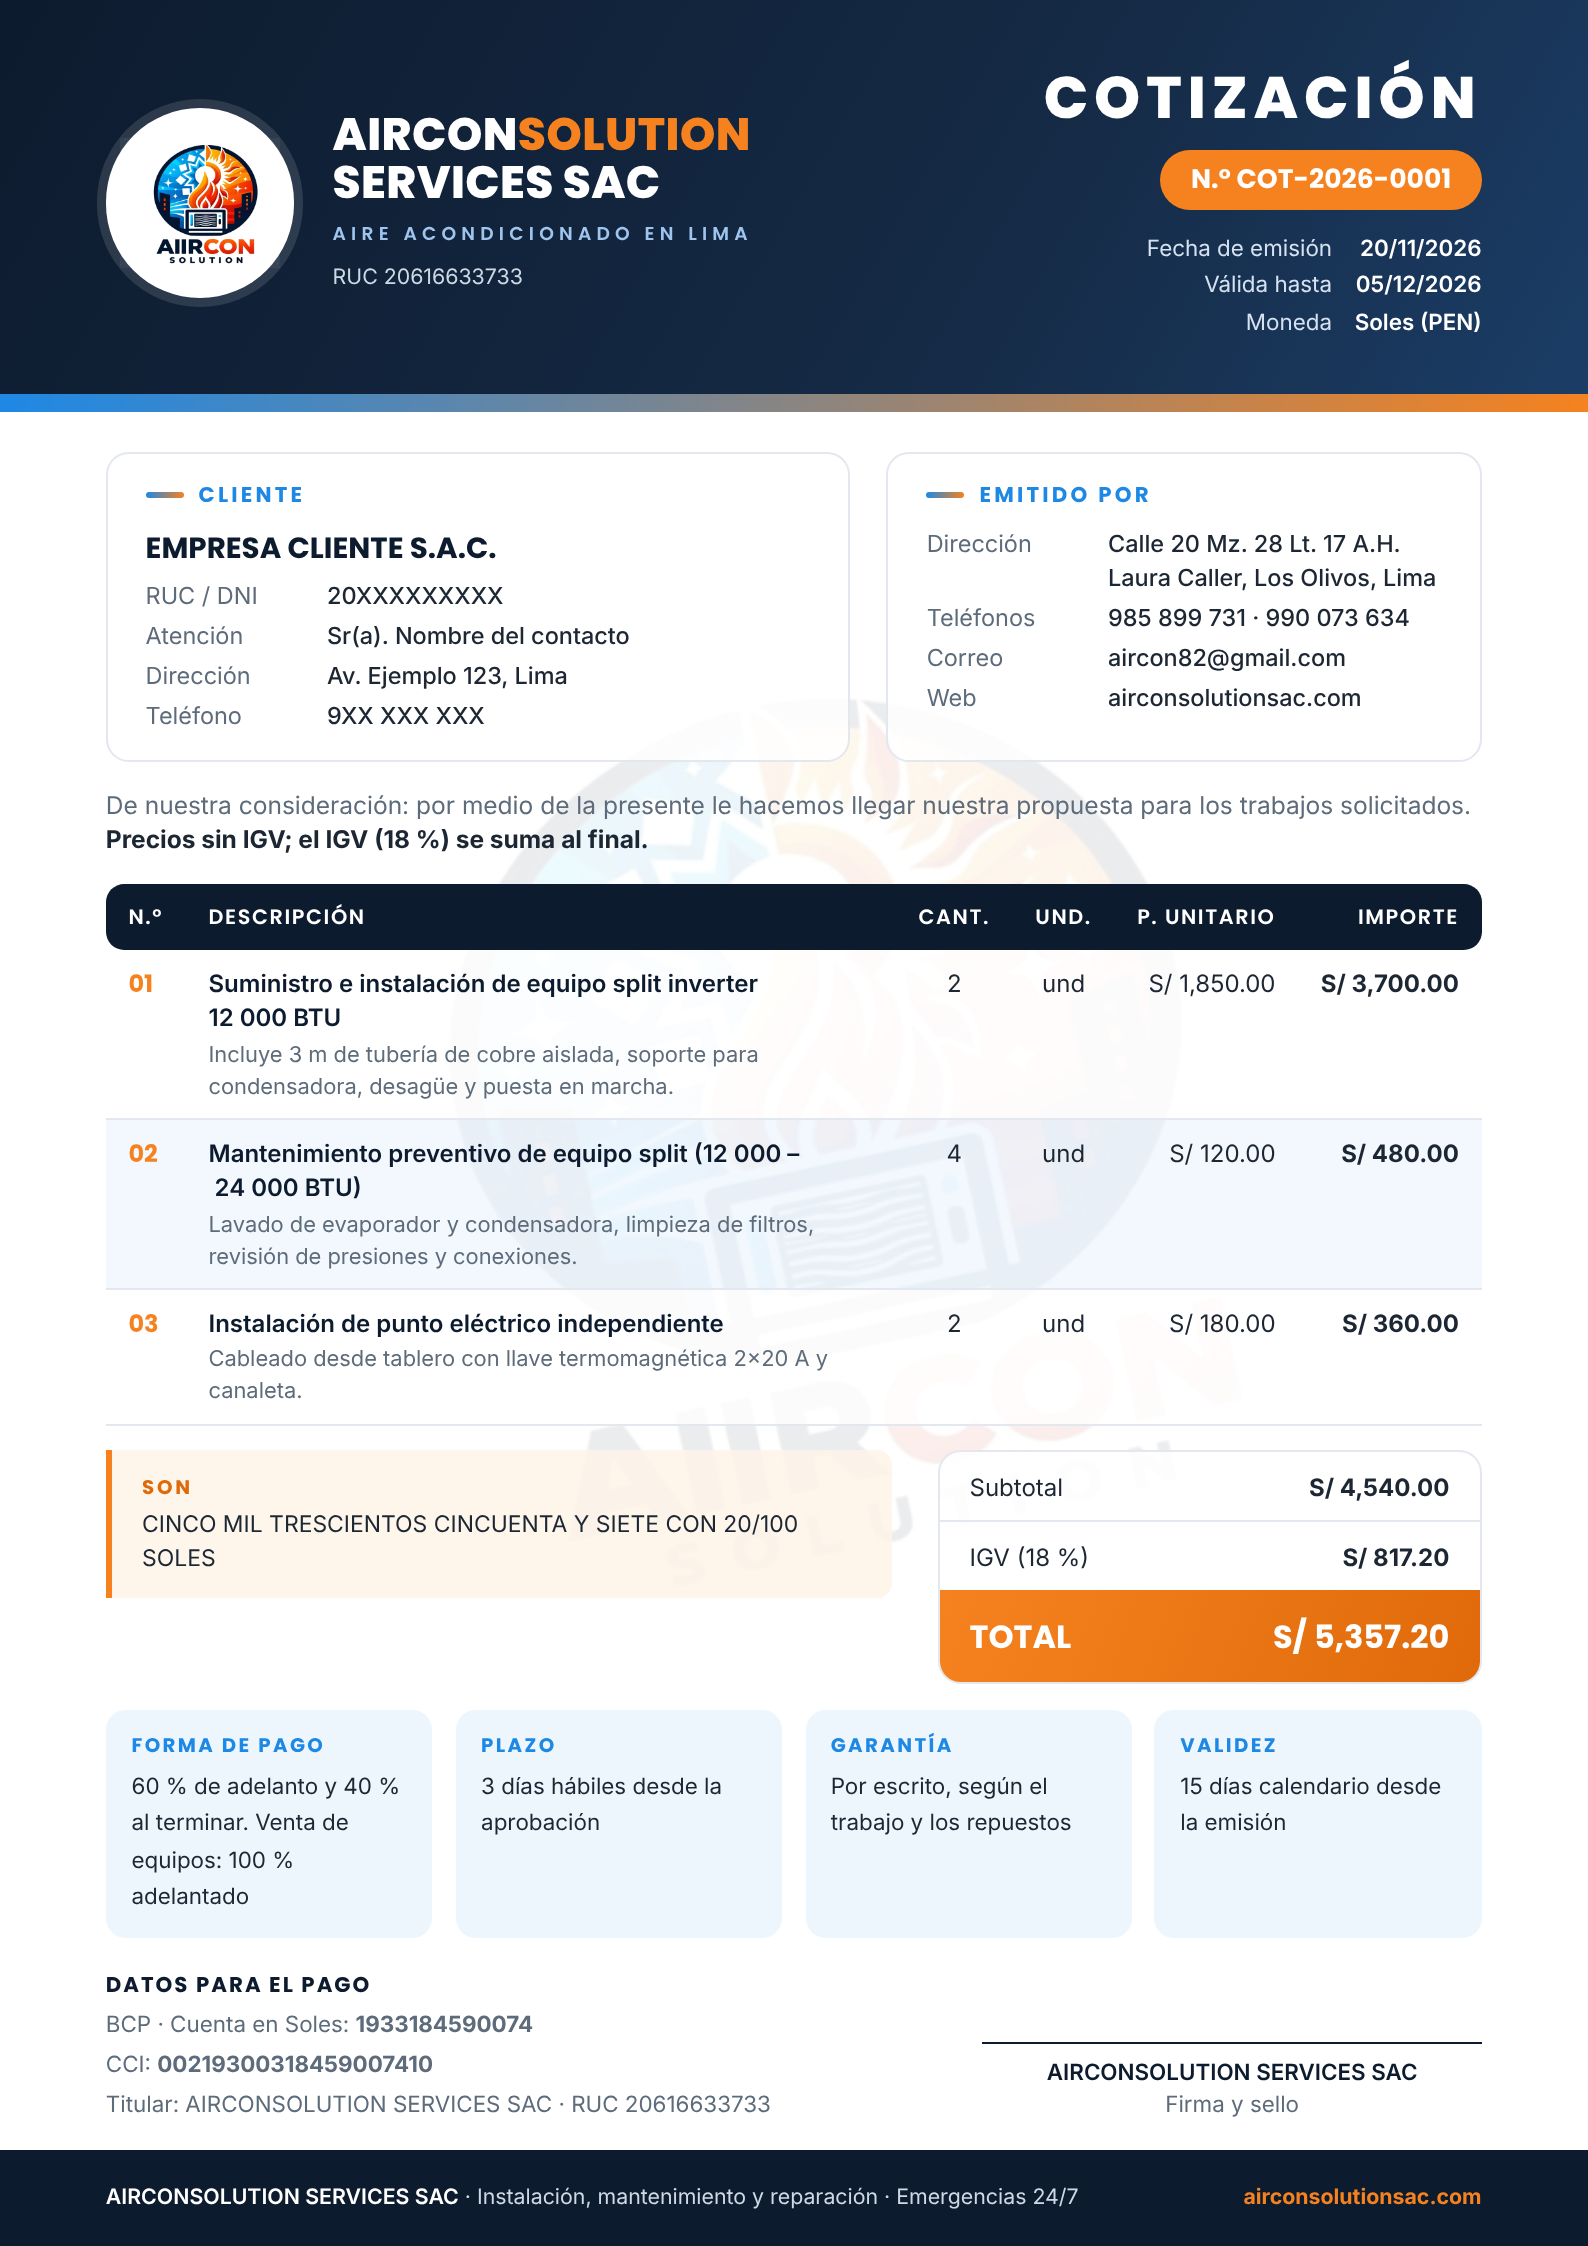
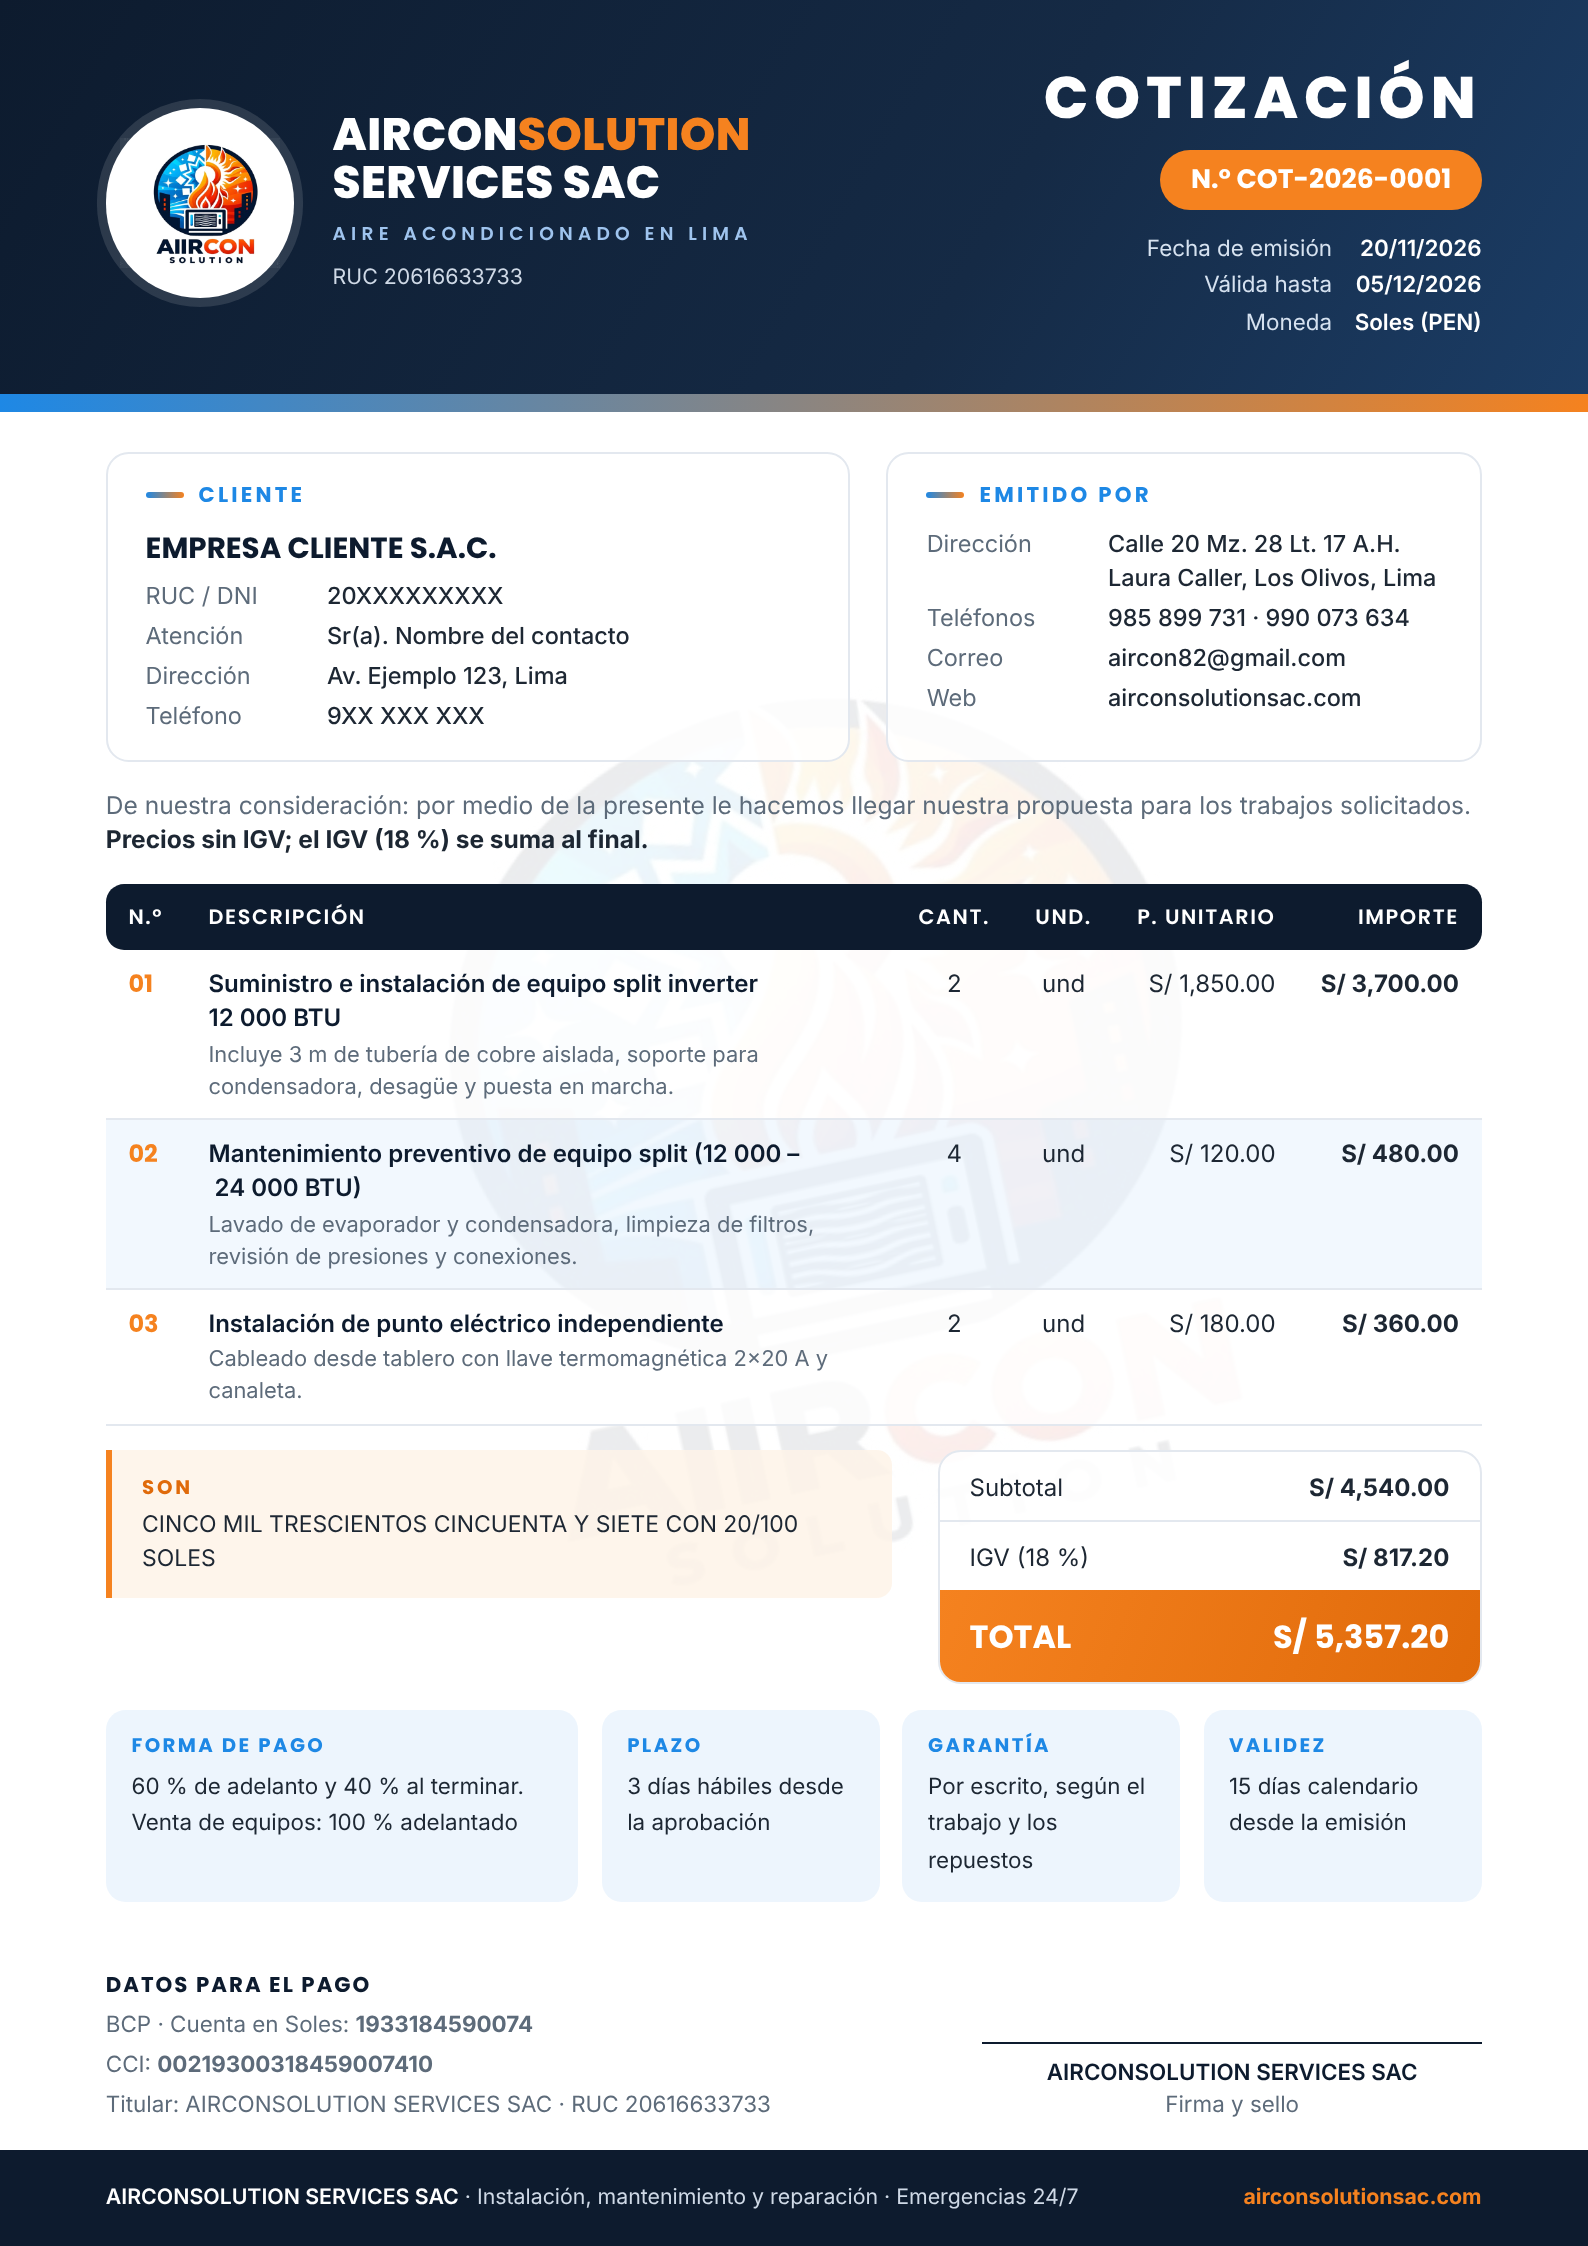
Cotización: partidas «por definir», forma de pago y cliente flexibles
- Una partida con precio null sale como «Por definir» y no suma al total
  (p. ej. materiales que se cotizan al instalar).
- Campo opcional forma_pago; la casilla de forma de pago es más ancha.
- Los datos del cliente vacíos no se muestran.

Claude-Session: https://claude.ai/code/session_01AZN1LapY6ga2rnRxoJVwRs

Changed region(s): [[0.2777, 0.748, 0.6788, 0.8415], [0.7406, 0.748, 0.8948, 0.8103], [0.0926, 0.8103, 0.1851, 0.8415]]

diff --git a/docs/cotizacion/generar.py b/docs/cotizacion/generar.py
@@ -105,7 +105,9 @@ def en_letras(monto: float) -> str:
 
 
 ITEMS = [tuple(x) for x in D["items"]]
-subtotal = sum(q * p for _, _, q, _, p in ITEMS)
+# Una partida con precio null (p. ej. materiales que se cotizan al instalar) sale como «Por definir»
+# y no suma al total.
+subtotal = sum(q * p for _, _, q, _, p in ITEMS if p is not None)
 igv = round(subtotal * 0.18, 2)
 total = round(subtotal + igv, 2)
 fecha = dt.date.fromisoformat(D["fecha"])
@@ -122,8 +124,8 @@ rows = "\n".join(
     f"""<tr>
       <td class="n">{i:02d}</td>
       <td class="desc"><strong>{E(t)}</strong><span>{E(d).replace(chr(10), "<br>")}</span></td>
-      <td class="c">{q:g}</td><td class="c">{E(u)}</td>
-      <td class="r">{money(p)}</td><td class="r b">{money(q * p)}</td>
+      <td class="c">{q if isinstance(q, str) else format(q, "g")}</td><td class="c">{E(u)}</td>
+      <td class="r">{money(p) if p is not None else "Por definir"}</td><td class="r b">{money(q * p) if p is not None else "—"}</td>
     </tr>"""
     for i, (t, d, q, u, p) in enumerate(ITEMS, 1)
 )
@@ -209,7 +211,7 @@ th.c, th.r {{ text-align: center; }} th.r {{ text-align: right; }}
   font-family: 'Poppins'; font-weight: 700; font-size: 12pt; padding: 3mm 4mm; border: 0; }}
 
 /* Condiciones */
-.terms {{ display: grid; grid-template-columns: repeat(4, 1fr); gap: 3mm; }}
+.terms {{ display: grid; grid-template-columns: 1.7fr 1fr 1fr 1fr; gap: 3mm; }}
 .term {{ border-radius: 2.6mm; padding: 3mm 3.4mm; background: rgba(232,242,253,.8); }}
 .term b {{ display: block; font-family: 'Poppins'; font-weight: 700; font-size: 7.4pt; letter-spacing: 1.2px;
   text-transform: uppercase; color: var(--blue); margin-bottom: .8mm; }}
@@ -257,10 +259,10 @@ footer .web {{ color: var(--orange); font-weight: 700; }}
         <h2>Cliente</h2>
         <div class="name">{C["nombre"]}</div>
         <dl class="kv">
-          <dt>RUC / DNI</dt><dd>{C["documento"]}</dd>
+          {"<dt>RUC / DNI</dt><dd>" + C["documento"] + "</dd>" if C.get("documento") else ""}
           {"" if not C.get("atencion") else "<dt>Atención</dt><dd>" + C["atencion"] + "</dd>"}
-          <dt>Dirección</dt><dd>{C["direccion"]}</dd>
-          <dt>Teléfono</dt><dd>{C["telefono"]}</dd>
+          {"<dt>Dirección</dt><dd>" + C["direccion"] + "</dd>" if C.get("direccion") else ""}
+          {"<dt>Teléfono</dt><dd>" + C["telefono"] + "</dd>" if C.get("telefono") else ""}
         </dl>
       </div>
       <div class="card">
@@ -297,7 +299,7 @@ footer .web {{ color: var(--orange); font-weight: 700; }}
     </section>
 
     <section class="terms">
-      <div class="term"><b>Forma de pago</b><span>60 % de adelanto y 40 % al terminar. Venta de equipos: 100 % adelantado</span></div>
+      <div class="term"><b>Forma de pago</b><span>{E(D.get("forma_pago", "60 % de adelanto y 40 % al terminar. Venta de equipos: 100 % adelantado"))}</span></div>
       <div class="term"><b>Plazo</b><span>3 días hábiles desde la aprobación</span></div>
       <div class="term"><b>Garantía</b><span>Por escrito, según el trabajo y los repuestos</span></div>
       <div class="term"><b>Validez</b><span>{int(D["validez_dias"])} días calendario desde la emisión</span></div>
